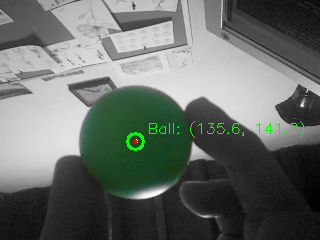
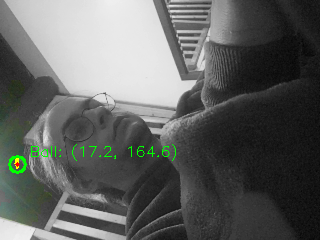
circularity filter e altri improvements

diff --git a/src/ball_detection/hsv_ball_detector.py b/src/ball_detection/hsv_ball_detector.py
@@ -32,6 +32,12 @@ class HSVDetectorConfig(BaseModel):
         ge=1.0,
         description="Minimum pixel area for the largest connected component",
     )
+    min_circularity: float = Field(
+        default=0.5,
+        ge=0.0,
+        le=1.0,
+        description="Minimum circularity (4*pi*area / perimeter^2) for the largest component",
+    )
     path_length: int = Field(
         default=20, ge=1, description="Number of past positions retained for debug trail"
     )
@@ -118,14 +124,25 @@ class HSVBallDetector(BallDetectorInterface):
             largest_area = float(areas[max_idx])
 
             if largest_area >= self.config.min_area:
-                # Keep strictly the largest connected component in the final mask
-                self._last_mask = ((labels == largest_label).astype(np.uint8) * 255)
-                cx, cy = centroids[largest_label]
-                position = (float(cx), float(cy))
-                self._path.append(position)
-                return position
+                component_mask = ((labels == largest_label).astype(np.uint8) * 255)
 
-        # No component found or largest component is below configured min_area
+                # Circularity validation
+                contours, _ = cv2.findContours(
+                    component_mask, cv2.RETR_EXTERNAL, cv2.CHAIN_APPROX_SIMPLE
+                )
+                if contours:
+                    main_contour = max(contours, key=cv2.contourArea)
+                    perimeter = cv2.arcLength(main_contour, closed=True)
+                    if perimeter > 0:
+                        circularity = (4.0 * np.pi * largest_area) / (perimeter * perimeter)
+                        if circularity >= self.config.min_circularity:
+                            self._last_mask = component_mask
+                            cx, cy = centroids[largest_label]
+                            position = (float(cx), float(cy))
+                            self._path.append(position)
+                            return position
+
+        # No component found or component failed min_area / circularity threshold
         self._last_mask = np.zeros_like(mask)
         self._path.append(None)
         return None
@@ -152,6 +169,13 @@ class HSVBallDetector(BallDetectorInterface):
             mask_indices = self._last_mask > 0
             debug_frame[mask_indices] = frame[mask_indices]
 
+            # Draw bright green outline border around the detected ball component
+            if np.any(mask_indices):
+                contours, _ = cv2.findContours(
+                    self._last_mask, cv2.RETR_EXTERNAL, cv2.CHAIN_APPROX_SIMPLE
+                )
+                cv2.drawContours(debug_frame, contours, -1, (0, 255, 0), 2)
+
         # Draw trajectory trail
         path_len = len(self._path)
         for i in range(1, path_len):
@@ -171,8 +195,8 @@ class HSVBallDetector(BallDetectorInterface):
         if path_len > 0 and self._path[-1] is not None:
             last_pos = self._path[-1]
             pt = (int(last_pos[0]), int(last_pos[1]))
-            cv2.circle(debug_frame, pt, 8, (0, 255, 0), 2)
-            cv2.circle(debug_frame, pt, 2, (0, 0, 255), -1)
+            # Red center dot (outer green circle removed as requested)
+            cv2.circle(debug_frame, pt, 3, (0, 0, 255), -1)
             cv2.putText(
                 debug_frame,
                 f"Ball: ({last_pos[0]:.1f}, {last_pos[1]:.1f})",

diff --git a/tests/test_ball_detection.py b/tests/test_ball_detection.py
@@ -131,6 +131,34 @@ def test_hsv_ball_detector_min_area_threshold() -> None:
     assert np.all(detector._last_mask == 0)
 
 
+def test_hsv_ball_detector_circularity_filter() -> None:
+    """Test that non-circular elongated shapes are rejected by min_circularity."""
+    config = HSVDetectorConfig(
+        hue_min=35.0,
+        hue_max=85.0,
+        min_area=50.0,
+        min_circularity=0.5,
+        closure_kernel_size=1,
+    )
+    detector = HSVBallDetector(config=config)
+
+    frame = np.zeros((240, 320, 3), dtype=np.uint8)
+    hsv_green = np.uint8([[[60, 200, 200]]])
+    bgr_green = cv2.cvtColor(hsv_green, cv2.COLOR_HSV2BGR)[0, 0]
+    color = (int(bgr_green[0]), int(bgr_green[1]), int(bgr_green[2]))
+
+    # Elongated strip 5x80 pixels (area = 400 > min_area 50, but circularity < 0.25)
+    cv2.rectangle(frame, (10, 10), (15, 90), color, -1)
+    assert detector.detect_ball(frame) is None
+
+    # Replace with a circle (area ~ 700, circularity ~ 0.86)
+    frame.fill(0)
+    cv2.circle(frame, (160, 120), 15, color, -1)
+    coords = detector.detect_ball(frame)
+    assert coords is not None
+    assert abs(coords[0] - 160) < 1.5
+
+
 def test_ball_detection_manager_config_loading() -> None:
     """Test that default ball detector YAML config loads cleanly into Pydantic model."""
     config = load_config(DEFAULT_BALL_DETECTOR_CONFIG_PATH, BallDetectionManagerConfig)
@@ -139,6 +167,7 @@ def test_ball_detection_manager_config_loading() -> None:
     assert config.output_position_topic == BALL_POSITION_TOPIC
     assert config.hsv.closure_kernel_size >= 1
     assert config.hsv.min_area >= 1.0
+    assert config.hsv.min_circularity >= 0.0
 
 
 def test_ball_detection_manager_zenoh_pipeline(free_zenoh_endpoint: str) -> None:

diff --git a/wiki/pc_setup.md b/wiki/pc_setup.md
@@ -1,6 +1,8 @@
-# PC Setup & Usage
+# PC Setup, Vision Processing & Debug Guide
 
-Instructions to set up and run the simulation environment, camera stream, and tests on a development PC.
+Instructions to set up and run the simulation environment, offload vision processing from the Raspberry Pi, and inspect real-time ball detection on your development PC.
+
+---
 
 ## 1. Virtual Environment Setup
 
@@ -16,45 +18,86 @@ Instructions to set up and run the simulation environment, camera stream, and te
    pip install -e ".[sim,dev]"
    ```
 
-## 2. Running the System
+---
 
-Launch the multi-process orchestrator from the project root:
+## 2. Remote Processing & Live Debug Visualization (PC + Raspberry Pi)
 
+When the Raspberry Pi is running in hardware mode (`python -m src.main --mode pi-hw`), you can offload vision detection and motor control to your PC.
+
+### Run Ball Detection with Live Debug Window:
 ```bash
-# Demo mode (default: producer/consumer test over Zenoh)
-python -m src.main --mode demo
-
-# Simulation mode (runs CameraManager with videotestsrc by default)
-python -m src.main --mode sim
-
-# Simulation mode with video file
-python -m src.main --mode sim --video-file videos/test_hw_enc.mp4
-
-# Or via the CLI entrypoint
-ball-sim
+python -m src.main --mode pc-proc --zenoh-endpoint tcp://<RASPBERRY_IP>:7447 --debug-window
 ```
 
-To stop the system, press **`Ctrl+C`**.
+- **Zero Latency**: Frame delivery is decoupled from processing so incoming frames are never queued.
+- **Selective Color Overlay**: The entire scene is shown in Black & White (grayscale) except for the largest connected component of the detected ball, which remains in full color.
+- **Tracking Visuals**: Green tracking circle, red centroid dot, position coordinates `(x, y)`, and past trajectory motion path are drawn directly on screen.
+- Press **`q`** in the OpenCV window or **`Ctrl+C`** in the terminal to exit cleanly.
 
-## 3. Viewing the Live Camera Stream
+---
 
-In a separate terminal (with the venv activated), run the standalone OpenCV viewer:
+## 3. Local Simulation Mode
+
+To test full end-to-end vision and control purely on your PC without hardware:
 
 ```bash
+python -m src.main --mode sim --debug-window
+```
+*Uses synthetic `videotestsrc` frames (or a custom video file specified in `src/config/camera/sim.yaml`).*
+
+---
+
+## 4. Standalone Raw Camera Stream Viewer
+
+If you only want to inspect the camera angle and raw video feed without running the ball detector:
+
+```bash
+# Connect to Raspberry Pi stream
+python -m src.tools.view_camera --endpoint tcp://<RASPBERRY_IP>:7447
+
+# Or view local simulation stream
 python -m src.tools.view_camera
 ```
 
-Press **`q`** inside the display window to close the viewer.
+---
 
-## 4. Running Tests
+## 5. Ball Detector Configuration
 
-Run the test suite:
+All detection parameters are centralized in `src/config/ball_detector/default.yaml`:
+
+```yaml
+input_frame_topic: "robot/camera/frame"
+output_position_topic: "robot/ball/position"
+strategy: "hsv"
+display_debug_window: false
+debug_window_name: "Ball Detection Debug"
+
+# Parameters for HSV color thresholding strategy (Green filter)
+hsv:
+  hue_min: 35.0
+  hue_max: 85.0
+  sat_min: 50.0
+  sat_max: 255.0
+  val_min: 50.0
+  val_max: 255.0
+  closure_kernel_size: 5
+  min_area: 20.0       # Minimum pixel area for largest connected component
+  path_length: 20      # Number of historic trail points to display
+```
+
+- **`min_area`**: Connected Component Analysis rejects any blob whose area is below this threshold, reporting `detected: false`.
+- **`display_debug_window`**: Can be set to `true` in the file or overridden at runtime via the `--debug-window` CLI flag.
+
+---
+
+## 6. Running Tests & Quality Checks
+
+Run the automated test suite (17 tests covering unit detection, zero-copy Zenoh messaging, and process lifecycles):
 ```bash
 pytest tests/ -v
 ```
 
-Run code formatting and linting:
+Linting and code style:
 ```bash
 ruff check src/ tests/
 ```
-

diff --git a/wiki/raspberry_setup.md b/wiki/raspberry_setup.md
@@ -1,62 +1,86 @@
-# Raspberry setup
+# Raspberry Pi Setup & Hardware Guide
 
-This project runs on a Raspberry Pi 3B+ running RaspiOS Trixie
+This project runs on a Raspberry Pi 3B+ (or newer) running RaspiOS Trixie with a Raspberry Pi Camera Module.
 
-## Software setup
+---
 
-To correctly setup the board, the first step is to flash the image on an SD card using Raspberry Imager
+## 1. Prerequisites & GStreamer Installation
 
-Then setup SSH and (optionally) VNC
-
-### Gstreamer
-
-The project uses a Raspberry Camera module, and it reads the video stream using gstreamer
-
-To install GStreamer run the command 
+Install GStreamer plugins, system tools, and libcamera pipeline handlers:
 
 ```bash
-sudo apt install gstreamer1.0-tools gstreamer1.0-plugins-base gstreamer1.0-plugins-good gstreamer1.0-plugins-bad gstreamer1.0-plugins-ugly libgstreamer1.0-dev libgstreamer-plugins-base1.0-dev gstreamer1.0-libcamera 
+sudo apt update
+sudo apt install -y \
+    gstreamer1.0-tools \
+    gstreamer1.0-plugins-base \
+    gstreamer1.0-plugins-good \
+    gstreamer1.0-plugins-bad \
+    gstreamer1.0-plugins-ugly \
+    libgstreamer1.0-dev \
+    libgstreamer-plugins-base1.0-dev \
+    gstreamer1.0-libcamera
 ```
 
-To test if everything works (need a monitor connected to the RPi):
-
+To test camera functionality with a local HDMI display:
 ```bash
 gst-launch-1.0 libcamerasrc ! video/x-raw,format=NV12,width=320,height=240,framerate=30/1 ! queue max-size-buffers=1 leaky=downstream ! videoconvert ! autovideosink sync=false
 ```
 
-### Python Virtual Environment
+---
 
-To set up the Python environment on the Raspberry Pi:
+## 2. Python Virtual Environment Setup
 
-1. Install system prerequisites (enables access to camera and GStreamer bindings):
+1. Install system Python packages (required for GStreamer `gi` bindings):
    ```bash
-   sudo apt install python3-venv python3-pip python3-gi python3-gst-1.0
+   sudo apt install -y python3-venv python3-pip python3-gi python3-gst-1.0
    ```
 
-2. Create a virtual environment with `--system-site-packages` so system GStreamer bindings (`gi`) are accessible:
+2. Create virtual environment with `--system-site-packages`:
    ```bash
    python3 -m venv --system-site-packages .venv
    source .venv/bin/activate
    ```
 
-3. Install the project with Raspberry Pi dependencies in editable mode:
+3. Install project dependencies:
    ```bash
    pip install --upgrade pip
    pip install -e ".[pi]"
    ```
 
-### Running on Raspberry Pi
+---
 
-Launch the robot managers (captures from camera via libcamerasrc):
+## 3. Running on Raspberry Pi
+
+### Option A: Hardware Interface Only (Recommended for PC Offloading)
+Runs camera acquisition (`CameraManager`) and motor actuators (`PiMotorActuator`), while offloading computer vision and ball detection to a development PC:
+
+```bash
+python -m src.main --mode pi-hw
+```
+*The local Zenoh router automatically listens on `tcp/0.0.0.0:7447` to accept network connections from your PC.*
+
+### Option B: Standalone Mode (Full On-Board Processing)
+Runs camera acquisition, on-board ball detection, and motor control directly on the Raspberry Pi:
+
 ```bash
 python -m src.main --mode pi
 ```
 
-To view the live stream remotely from your PC connected to the same network:
-```bash
-python -m src.tools.view_camera --endpoint tcp://<RASPBERRY_IP>:7447
+---
+
+## 4. Hardware Camera Configuration
+
+Camera settings for the real hardware are configured in `src/config/camera/real.yaml`:
+
+```yaml
+output_frame_topic: "robot/camera/frame"
+source_type: "real"
+width: 320
+height: 240
+framerate: 30
+device: null     # Set to null to use libcamerasrc, or "/dev/video0" for V4L2
+hflip: true      # Flips the camera feed horizontally
+loop_rate_hz: 60.0
 ```
 
-To stop the system, press **`Ctrl+C`**.
-
-
+To stop the system cleanly, press **`Ctrl+C`**. If hanging due to a previous crash, run `pkill -9 -f "src.main"`.
